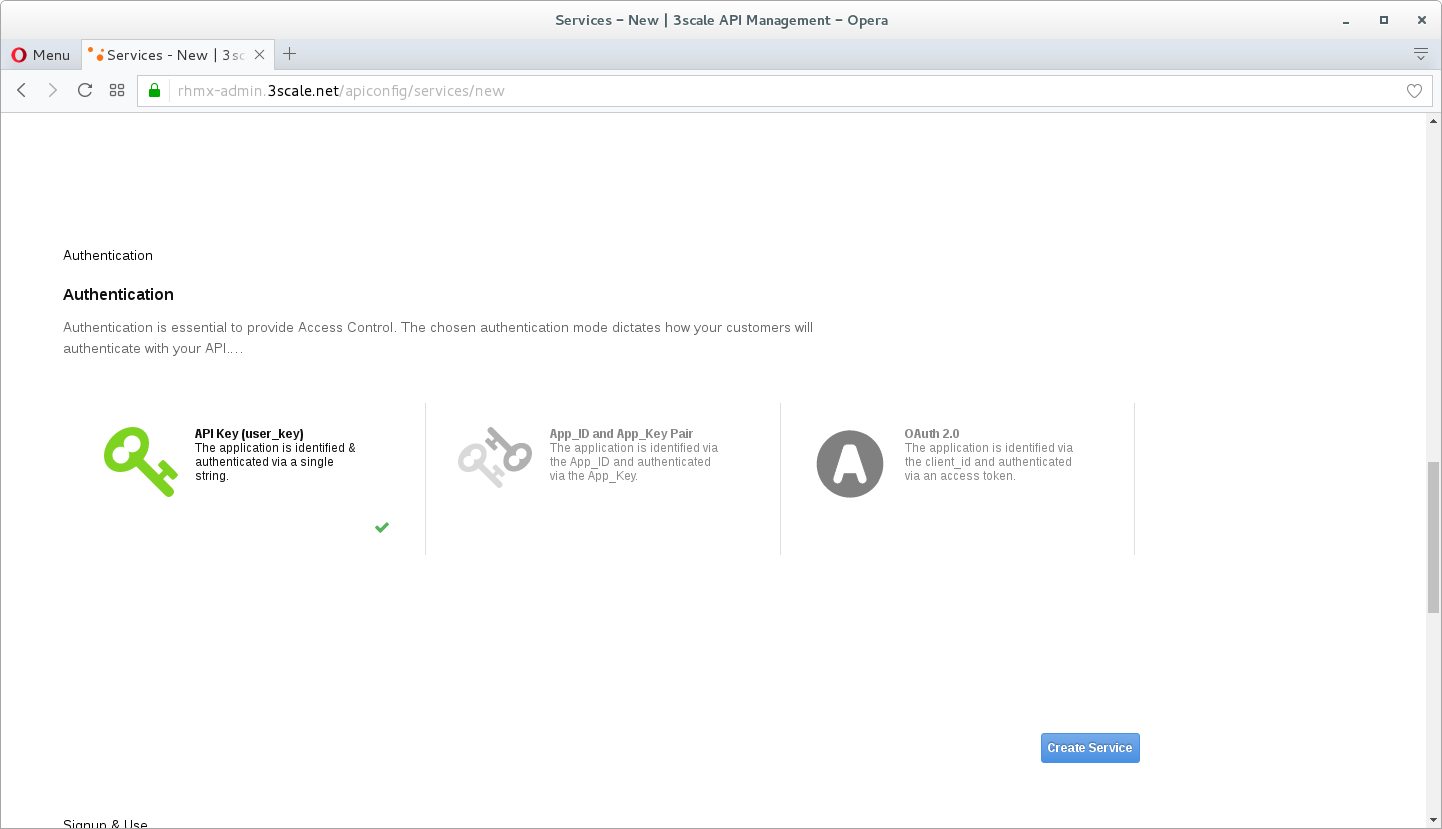
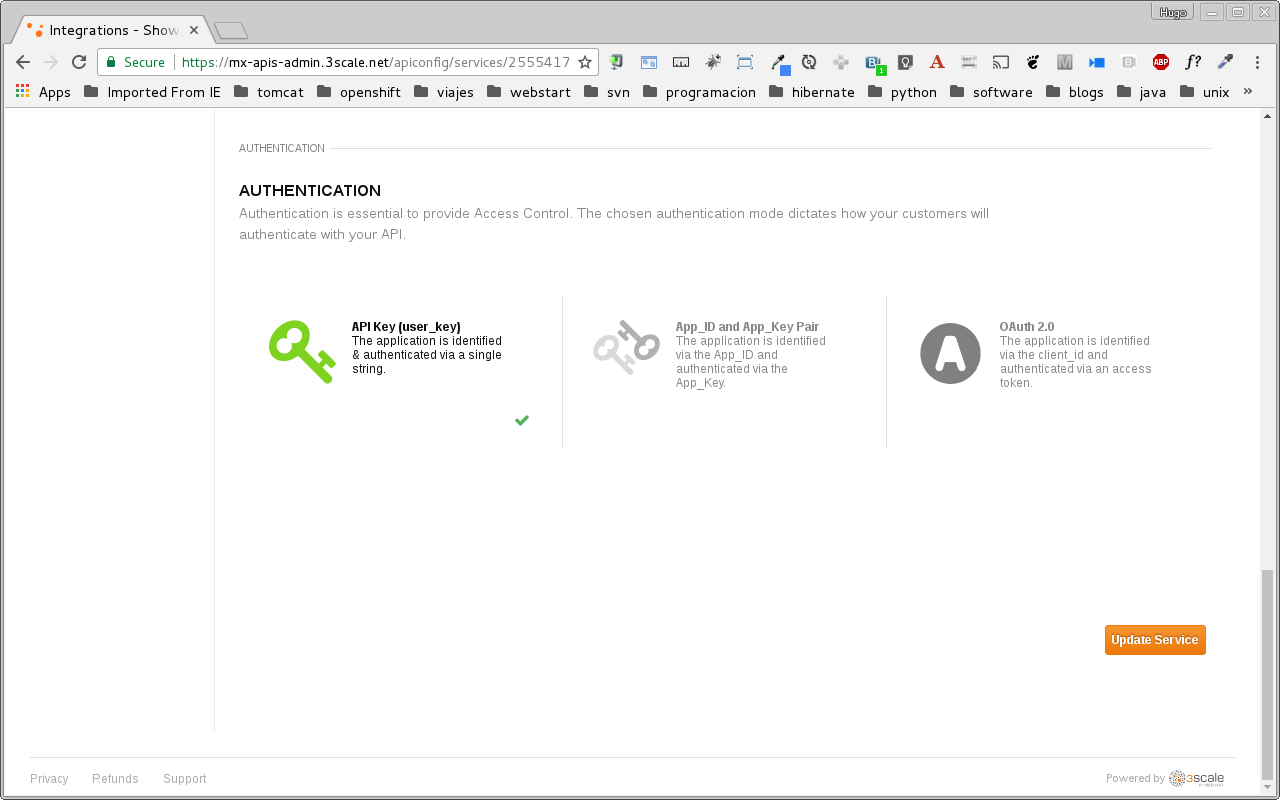
added developer portal section, removed app plans.

diff --git a/lab02/README.md b/lab02/README.md
@@ -165,13 +165,17 @@ Your 3scale Admin Portal (http://&lt;YOURDOMAIN&gt;-admin.3scale.net) provides a
 
     ![01-login.png](./img/01-login.png)
 
-1. The first page you will land is the API tab. From here we will create our API definition. Select the `Create Service` option.
+1. If it's the first time you access the 3scale portal, like when you click the *activate* link from the sign up email, dismiss and close the wizard by clicking on the top right **X**.
 
-    ![02-create-service.png](./img/02-create-service.png)
+    ![01a-wizard.png](./img/01a-wizard.png)
 
-1. Fill in the information for your API. Name it `Customers API` and `customers` for the system name. Add your personal description.
+1. The first page you will land is the API tab. From here we will create our API definition. Click on the `Integration` link.
 
-    ![03-new-service.png](./img/03-new-service.png)
+    ![02-api-integration.png](./img/02-api-integration.png)
+
+1. Click on the `edit integration settings` to edit the API settings for the gateway.
+
+    ![03-edit-settings.png](./img/03-edit-settings.png)
 
 1. Select the **APIcast self-managed** Gateway deployment option.
 
@@ -181,19 +185,9 @@ Your 3scale Admin Portal (http://&lt;YOURDOMAIN&gt;-admin.3scale.net) provides a
 
     ![05-authentication.png](./img/05-authentication.png)
 
-1. Click on **Create Service**
-1. Select your new API and click on **Configure Self-managed Gateway**
-
-    ![06-configure-apicast.png](./img/06-configure-apicast.png)
+1. Click on **Update Service**
 
 1. Click on the **add the Base URL of your API and save the configuration** button
-1. Fill in the information for accessing your API.
-
-    The private Base URL is the camel servlet and default port `<HOST-SERVER-IP>:8080`.
-
-    For this lab, we are going to use the route from the APIcast Gateway deployed on Openshift: `http://customer-api-staging.<OPENSHIFT-SERVER-IP>.nip.io:80` for staging and `http://customer-api-production.<OPENSHIFT-SERVER-IP>.nip.io:80` for production.
-
-    ![07-baseurl-configuration.png](./img/07-baseurl-configuration.png)
 
 1. Expand the **mapping rules** section to define the allowed methods on our exposed API.
 
@@ -239,6 +233,20 @@ Your 3scale Admin Portal (http://&lt;YOURDOMAIN&gt;-admin.3scale.net) provides a
 
 1. *Optional::* Click on the **Add Mapping Rule** button to add the `custoner_get` method mapping.
 
+1. Fill in the information for accessing your API:
+
+    **Private Base URL** is the camel servlet and default port `http://<VM-SERVER-IP>:8080`.
+
+    * To check the `<VM-SERVER-IP>`, open a terminal window in your VM and issue the following command:
+
+        `ifconfig | awk '{match($0,/[0-9]+\.[0-9]+\.[0-9]+\.[0-9]+/); ip = substr($0,RSTART,RLENGTH); print ip}' | sort -r | head -1`
+
+    **Staging Public Base URL:** `http://customer-api-staging.<OPENSHIFT-SERVER-IP>.nip.io:80`
+
+    **Production Public Base URL:** `http://customer-api-production.<OPENSHIFT-SERVER-IP>.nip.io:80`
+
+    ![07-baseurl-configuration.png](./img/07-baseurl-configuration.png)
+
 1. Scroll down to the **API Test GET request**.
 
 1. Enter `/myfuselab/customer/all`.
@@ -249,46 +257,94 @@ Your 3scale Admin Portal (http://&lt;YOURDOMAIN&gt;-admin.3scale.net) provides a
 
 1. Success! Your 3scale access control layer will now only allow authenticated calls through to your backend API.
 
-#### Step 2: Configure your API access policies with application plans
+#### Step 2: Register a new account using the Developer Portal
 
-In the previous step, you ensured that only authenticated calls are allowed through to your API. Now you will apply policies to differentiate rate limits.
+The focal point of your developers’ experience is the API developer portal, and the level of effort you put into it will determine the level of decreased support costs and increased developer engagement. 3scale provides a built-in, state-of-the-art CMS portal, making it very easy to create your own branded hub with a custom domain to manage developer interactions and increase API adoption.
 
-In 3scale terms, *applications* define the credentials to access your API. An application is always associated with one *application plan*, which determines the access policies. Applications are stored within *developer accounts* – in the basic 3scale plans only a single application is allowed, but in the higher plans multiple applications per account are allowed.
+You can customize the look and feel of the entire Developer Portal to match your own branding. You have complete control over every element of the portal, so you can make it as easy as possible for developers to learn how to use your API.
 
-1. Let's create a new application plan for this example. In order to do this, navigate to the **Application Plans** tab and click on **Create Application Plan**.
+The Developer Portal's CMS consists of a few elements:
+* Horizontal menu in the Admin Portal with access to content, redirects, and changes
+* The main area containing details of the sections above
+* CMS mode, accessible through the preview option
 
-    ![09-create-applicationplan.png](./img/09-create-applicationplan.png)
+![09-developer-portal.png](./img/09-developer-portal.png)
 
-1. Fill in the information for the name of your plan. In the form that opens, specify the desired name – for example "limited" – and the system name. Then click on **Create Application Plan** button.
+Liquid is a simple programming language used for displaying and processing most of the data from the 3scale system available for API providers. In the 3scale platform, it is used to expose server-side data to your API developers, greatly extending the usefulness of the CMS while maintaining a high level of security.
 
-    ![10-name-plan.png](./img/10-name-plan.png)
+1. Click on the `Developer Portal` tab to access the developer portal settings.
 
-    After the previous step, you should see the list of application plans.
+    ![10-developer-portal.png](./img/10-developer-portal.png)
 
-1. Your plan is created, now you need you to publish it. Click on the `publish` link to made it public.
+1. Click on the `Visit Developer Portal` to take a look of how your developer portal looks like.
 
-    ![11-publish-plan.png](./img/11-publish-plan.png)
+    ![11-visit-devportal.png](./img/11-visit-devportal.png)
 
-1. To asociate the application plan with an application, navigate to the **Developers** tab and click on the `Developer` link.
+    You can see there is a default portal with information of your API and how to signup. Unfortunately the API information is incorrect.
 
-    ![12-developers.png](./img/12-developers.png)
+    ![12-devportal-overview.png](./img/12-devportal-overview.png)
 
-1. Click on the `1 Application` link to access this developer's applications.
+    > **Note:** We will edit our portal to update it with the correct information and to add the shadowman cool logo.
 
-    ![13-applications.png](./img/13-applications.png)
+1. Go back to your admin portal browser tab and search the content sub-sections for the `Layouts `and select the `</> Main layout`
 
-1. Now, create a new Application by clicking the **Create Application** button.
+    ![12-main-layout.png](./img/12-main-layout.png)
 
-    ![14-create-application.png](./img/14-create-application.png)
+1. First look for the `navbar` section of the main HTML. Replace the `{{ provider.name }}` for the shadowman image link:
 
-1. Select the previously created application plan from the combobox and fill in the information for the application. Click on the **Create Application** to save your changes.
+    `<img src="https://www.redhat.com/profiles/rh/themes/redhatdotcom/img/logo.png" alt="{{ provider.name }}">`
 
-    ![15-new-application.png](./img/15-new-application.png)
+    ![13-custom-logo.png](./img/13-custom-logo.png)
 
-1. In the next screen, you will be presented with the autogenerated user key that will be used to access your API.
+1. Click on `Publish` button at the bottom of the editor to save the changes and made them available in the site.
 
-    ![16-user-key.png](./img/16-user-key.png)
+    ![14-publish-devportal.png](./img/14-publish-devportal.png)
 
+1. Go back to browse the top of the content sub-sections and find the `Homepage` section.
+
+    ![15-homepage-devportal.png](./img/15-homepage-devportal.png)
+
+1. Change all the code `Echo` references in the homepage code for `Customer`.
+
+1. Update the API call examples to reflect your real Fuse API calls.
+
+    > **Note:** Use your production base url and add your defined methods. Dont worry if you don't have the "real" output, it won't affect the rest of the lab.
+
+1. Refresh your Developer Portal's browser tab to check the changes. Your Developer Portal should look like this:
+
+    ![16-updated-devportal.png](./img/16-updated-devportal.png)
+
+1. Take the place of one of your developers and signup for the **Basic** plan.
+
+    ![16a-signup-limited.png](./img/16a-signup-limited.png)
+
+1. Fill in your information and your email to register as a developer. Click on the `Sign up` button.
+
+    ![16b-signup-form.png](./img/16b-signup-form.png)
+
+    > **Note:** Use an email address you can actually access.
+
+1. Check your email and click on the `activate` link.
+
+    ![16c-activate-account.png](./img/16c-activate-account.png)
+
+1. As your portal is not currently public, you will need your portal code to finish the registration. You can get the code in your admin portal navigating to: `Settings > Developer Portal > Domains & Access`.
+
+    ![16d-access-portal.png](./img/16d-access-portal.png)
+
+1. Type your portal code to finish the account activation.
+
+    ![16e-ingress-code.png](./img/16e-ingress-code.png)
+
+1. Now that your developer account is active, sign in the portal.
+
+    ![16f-dev-signin.png](./img/16f-dev-signin.png)
+
+1. You will land in the developers homepage, where you will be able to check your developers settings and retrieve your `User Key`.
+
+    ![16g-user-key.png](./img/16g-user-key.png)
+
+    > **Note:** Copy down this key as it is used to authenticate yourself to the managed API.
 
 #### Step 3: Deploy APIcast using the OpenShift template
 
@@ -383,7 +439,7 @@ In 3scale terms, *applications* define the credentials to access your API. An ap
 
 #### Step 4: Test APIcast
 
-1. Test that APIcast authorizes a valid call to your API, by executing a curl command with your valid *user_key* to the *hostname* that you configured in the previous step:
+1. Test that APIcast authorizes a valid call to your API, by executing a curl command with your valid developer's `user_key` to the `hostname` that you configured in the previous step:
 
     ```
     curl -i "http://customer-api-staging.<OPENSHIFT-SERVER-IP>.nip.io:80/myfuselab/customer/all?user_key=YOUR_USER_KEY" --insecure
